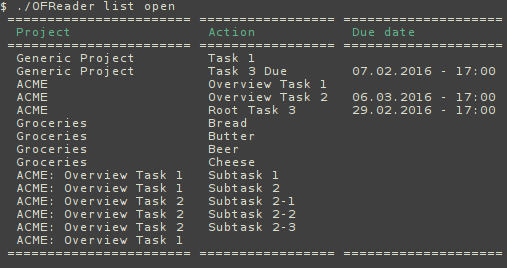
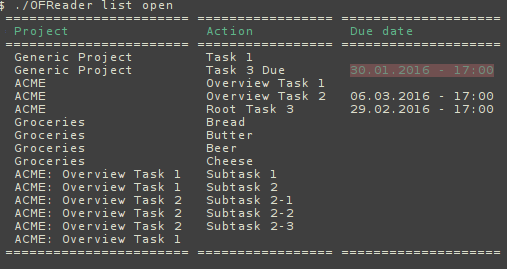
Uses Symfony conventions, adds available filter

Changed region(s): [[0.0, 0.0, 1.0, 0.9552], [0.6805, 0.3284, 0.9763, 0.4478], [0.6805, 0.2388, 0.9763, 0.2985]]

diff --git a/src/OFDB.php b/src/OFDB.php
@@ -4,38 +4,44 @@ namespace Grahl\OFReader;
 
 use Symfony\Component\Yaml\Yaml;
 
-class OFDB {
+class OFDB
+{
 
     private $database;
 
     protected $epoch_offset = 978307200;
 
-    public function __construct() {
+    public function __construct()
+    {
 
-        $file = __DIR__ . '/../config.yml';
+        $file = __DIR__.'/../config.yml';
         $config = Yaml::parse(file_get_contents($file));
 
         if (isset($config['application']) && isset($config['application']['database'])) {
             $db_file = $config['application']['database'];
         } else {
-            $db_file = $_SERVER['HOME'] . '/OmniFocusDatabase2';
+            $db_file = $_SERVER['HOME'].'/OmniFocusDatabase2';
         }
 
-        $this->database = new \PDO('sqlite:' . $db_file);
+        $this->database = new \PDO('sqlite:'.$db_file);
         $this->database->setAttribute(\PDO::ATTR_ERRMODE, \PDO::ERRMODE_EXCEPTION);
     }
 
-    public function getDue() {
+    public function getDue()
+    {
         $time = strtotime('today 5pm') - $this->epoch_offset;
 
-        $query = $this->database->prepare("SELECT * FROM Task where dateDue <=$time and dateCompleted is Null and projectInfo is Null");
-        $query->execute();
+        $query = $this->database->prepare(
+            "SELECT * FROM Task where dateDue <=:time and dateDue > 0 AND dateCompleted is Null and projectInfo is Null"
+        );
+        $query->execute([':time' => $time]);
         $tasks = $query->fetchAll();
 
         return $this->formatTasks($tasks);
     }
 
-    public function getAll() {
+    public function getAll()
+    {
         $query = $this->database->prepare("SELECT * FROM Task where projectInfo is Null");
         $query->execute();
         $tasks = $query->fetchAll();
@@ -44,7 +50,19 @@ class OFDB {
 
     }
 
-    public function getOpen() {
+    public function getAvailable()
+    {
+        $now = time() - -$this->epoch_offset;
+        $query = $this->database->prepare("SELECT * FROM Task where projectInfo is Null AND dateCompleted IS Null AND (dateToStart>=:start OR dateToStart is NULL)");
+        $query->execute([':start' => $now]);
+        $tasks = $query->fetchAll();
+
+        return $this->formatTasks($tasks);
+
+    }
+
+    public function getOpen()
+    {
         $query = $this->database->prepare("SELECT * FROM Task where dateCompleted is Null and projectInfo is Null");
         $query->execute();
         $tasks = $query->fetchAll();
@@ -54,39 +72,50 @@ class OFDB {
     }
 
 
-    private function convertDate($input) {
-        if ($input > 0 ) {
+    private function convertDate($input)
+    {
+        if ($input > 0) {
             return $this->epoch_offset + $input;
         } else {
             return 0;
         }
     }
 
-    private function fetchParent($id) {
+    private function fetchParent($id)
+    {
         $query = $this->database->prepare("SELECT * FROM task WHERE persistentIdentifier=:id");
         $query->execute([':id' => $id]);
+
         return $query->fetch();
     }
 
-    private function formatTasks($tasks) {
+    private function formatTasks($tasks)
+    {
+
+        if (!$tasks) {
+            return array();
+        }
+
         foreach ($tasks as $task) {
             $parentTask = $this->fetchParent($task['parent']);
             $project_label = '';
             $separator = '';
             while (empty($parentTask['projectInfo'])) {
-                $project_label = $parentTask['name']  . $separator . $project_label;
+                $project_label = $parentTask['name'].$separator.$project_label;
                 $parentTask = $this->fetchParent($parentTask['parent']);
                 $separator = ': ';
             }
-            $project_label = $parentTask['name']  . $separator . $project_label;
+            $project_label = $parentTask['name'].$separator.$project_label;
             $formatted_task = new \stdClass();
             $formatted_task->project = $project_label;
             $formatted_task->name = $task['name'];
             $formatted_task->plainTextNote = $task['plainTextNote'];
             $formatted_task->dateDue = $this->convertDate($task['dateDue']);
+            $formatted_task->dateToStart = $this->convertDate($task['dateToStart']);
             $formatted_tasks[] = $formatted_task;
 
         }
+
         return $formatted_tasks;
     }
 }

diff --git a/src/getTasks.php b/src/getTasks.php
@@ -11,7 +11,8 @@ use Symfony\Component\Console\Output\OutputInterface;
 use Symfony\Component\Console\Helper\Table;
 use Symfony\Component\Console\Helper\TableSeparator;
 
-class getTasks extends Command {
+class getTasks extends Command
+{
     protected function configure()
     {
         $this
@@ -29,6 +30,7 @@ class getTasks extends Command {
                 'If set, the description will be printed'
             );
     }
+
     protected function execute(InputInterface $input, OutputInterface $output)
     {
         $OFDB = new OFDB();
@@ -40,6 +42,9 @@ class getTasks extends Command {
             case 'all':
                 $tasks = $OFDB->getAll();
                 break;
+            case 'available':
+                $tasks = $OFDB->getAvailable();
+                break;
             case 'getDue':
             default:
                 $tasks = $OFDB->getDue();
@@ -50,17 +55,27 @@ class getTasks extends Command {
         $formatted_tasks = [];
 
         if ($input->getOption('full')) {
-            $headers = ['Project', 'Action', 'Due date', 'Note'];
+            $headers = ['Project', 'Action', 'Due date', 'Start date', 'Note'];
             foreach ($tasks as $task) {
-                $formatted_tasks[] =  [$this->wrapText($task->project, 30), $this->wrapText($task->name, 50), $this->formatDate($task->dateDue), $this->wrapText($task->plainTextNote)];
-                $formatted_tasks[] =  new TableSeparator();
+                $formatted_tasks[] = [
+                    $this->wrapText($task->project, 30),
+                    $this->wrapText($task->name, 50),
+                    $this->formatDate($task->dateDue),
+                    $this->formatDate($task->dateToStart),
+                    $this->wrapText($task->plainTextNote),
+                ];
+                $formatted_tasks[] = new TableSeparator();
             }
             array_pop($formatted_tasks);
         } else {
             $table->setStyle('borderless');
             $headers = ['Project', 'Action', 'Due date'];
             foreach ($tasks as $task) {
-                $formatted_tasks[] = [$this->wrapText($task->project, 30), $this->wrapText($task->name, 50), $this->formatDate($task->dateDue)];
+                $formatted_tasks[] = [
+                    $this->wrapText($task->project, 30),
+                    $this->wrapText($task->name, 50),
+                    $this->formatDate($task->dateDue),
+                ];
             }
         }
 
@@ -71,27 +86,31 @@ class getTasks extends Command {
         $table->render();
     }
 
-    private function wrapText($input, $length = 50) {
-        return wordwrap( $input, $length, "\n" , true);
+    private function wrapText($input, $length = 50)
+    {
+        return wordwrap($input, $length, "\n", true);
     }
 
-    private function formatDate($timestamp) {
+    private function formatDate($timestamp)
+    {
 
-        if ($timestamp > 0 ) {
+        if ($timestamp > 0) {
             $today = date('d.m.Y');
             $tomorrow = date('d.m.Y', strtotime('tomorrow'));
             if ($today == date('d.m.Y', $timestamp)) {
                 $formatted_date = 'Today';
-            } else if ($tomorrow == date('d.m.Y', $timestamp)) {
-                $formatted_date = 'Tomorrow';
             } else {
-                $formatted_date = date('d.m.Y', $timestamp);
+                if ($tomorrow == date('d.m.Y', $timestamp)) {
+                    $formatted_date = 'Tomorrow';
+                } else {
+                    $formatted_date = date('d.m.Y', $timestamp);
+                }
             }
 
             $formatted_date .= date(' - H:i', $timestamp);
 
             if ($timestamp < time()) {
-                $formatted_date = '<error>' . $formatted_date . '</error>';
+                $formatted_date = '<error>'.$formatted_date.'</error>';
             }
 
         } else {

diff --git a/README.md b/README.md
@@ -11,7 +11,7 @@ OFReader allows you to query an OmniFocus™ 2 SQLite database with ease through
 
 ## Usage
 
-`./OFReader list (due|all|open) (--full)`
+`./OFReader list (due|all|open|available) (--full)`
 
 ### Example output
 
